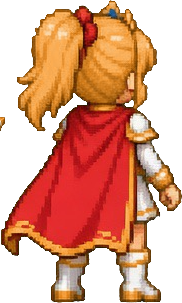
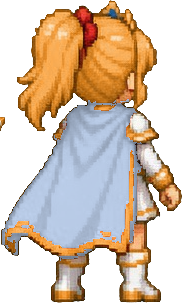
feat: 小公主披風改成冷銀白，紅披風留給長公主當辨識線索
紅披風是長公主的特徵，開場 CG 第 1 張的背影反轉就靠這個：
第一輪玩家會把紅披風的背影讀成「理想中的騎士」，第二輪才發現是姐姐。
線索看得見但第一次無害，這才是伏筆該有的樣子。

問題是純白配白金鎧甲在遊戲的 70 px 尺寸下會糊成一團，所以實測了三種白：

| 版本 | 披風 vs 鎧甲 ΔE | 整體 vs 天空 ΔE |
|---|---|---|
| 原本的紅 | 80.0 | 72.1 |
| A 純白 | 17.6（讀成同一塊材質） | 60.5 |
| B 冷銀白 ← 採用 | 30.2 | 59.5 |
| C 淡藍灰 | 43.2（開始讀成藍色） | 58.9 |

採用 B：偏冷偏灰的白，看起來還是白的，但跟暖白的鎧甲分得開。

改到的素材（動作圖、五張轉身圖、兩張結算插畫）都用
tools/recolor_cape.py 處理，它會用連通區塊 + 位置判斷避開紅緞帶
（緞帶是兩姊妹的家族共通點，維持紅色）。這是過渡處理，
之後重拍的動作圖會直接畫成白的。

封面本來就是白披風，不用重產。

Claude-Session: https://claude.ai/code/session_015KdV9rzzxhngxWRbvtQ9iL

Changed region(s): [[0.0, 0.3267, 0.7967, 0.8614]]

diff --git a/tools/recolor_cape.py b/tools/recolor_cape.py
@@ -1,0 +1,64 @@
+"""把小公主 sprite 的紅披風改成冷銀白，紅緞帶保持紅色。
+
+這是暫時的過渡處理——之後重拍的動作圖會直接畫成白披風。
+判定規則：紅色連通區塊裡，位置在角色上緣 38% 以內、而且不到最大塊 30% 的，
+判定為緞帶（綁在馬尾根部），維持原色；其餘都是披風。
+"""
+import sys, os, colorsys
+import numpy as np
+from PIL import Image
+sys.path.insert(0, 'tools')
+from greenscreen_sheet import label_blobs
+
+
+def red_mask(rgb, al):
+    r, g, b = [rgb[..., i].astype(float) for i in range(3)]
+    mx, mn = rgb.max(2).astype(float), rgb.min(2).astype(float)
+    sat = np.where(mx > 0, (mx - mn) / np.maximum(mx, 1), 0)
+    return (al > 0) & (g < r * 0.52) & (b < r * 0.60) & (sat > 0.45) & (mx > 40)
+
+
+def cape_of(red, al):
+    """從紅色區塊裡挑出披風（排除緞帶）。"""
+    keep = np.zeros_like(red)
+    lab, blobs = label_blobs(red)
+    if not blobs:
+        return keep
+    ys = np.where((al > 0).any(axis=1))[0]
+    if not len(ys):
+        return keep
+    top, bot = ys.min(), ys.max()
+    head_band = top + (bot - top) * 0.38          # 馬尾根部落在這個範圍內
+    big = max(bl["px"] for bl in blobs)
+    for bl in blobs:
+        m = (lab == bl["id"])
+        cy = np.where(m.any(axis=1))[0].mean()
+        ribbon = cy < head_band and bl["px"] < big * 0.30
+        if not ribbon:
+            keep |= m
+    return keep
+
+
+def recolor(src, dst, hue=0.60, sat=0.20, lo=0.42, hi=0.96, frames=1):
+    a = np.array(Image.open(src).convert('RGBA'))
+    h, w = a.shape[:2]
+    fw = w // frames
+    total = 0
+    for i in range(frames):                        # 一格一格處理，避免跨格互相影響
+        sl = slice(i * fw, (i + 1) * fw)
+        rgb, al = a[:, sl, :3], a[:, sl, 3]
+        m = cape_of(red_mask(rgb, al), al)
+        v = rgb.max(2).astype(float) / 255.0
+        v2 = np.clip(lo + v * (hi - lo), 0, 1)
+        for y, x in zip(*np.where(m)):
+            rr, gg, bb = colorsys.hsv_to_rgb(hue, sat, v2[y, x])
+            a[y, i * fw + x, :3] = [round(rr * 255), round(gg * 255), round(bb * 255)]
+        total += int(m.sum())
+    Image.fromarray(a).save(dst, optimize=True)
+    return total
+
+
+if __name__ == '__main__':
+    src, dst = sys.argv[1], sys.argv[2]
+    n = int(sys.argv[3]) if len(sys.argv) > 3 else 1
+    print('%-14s 改色 %d px（%d 格）' % (os.path.basename(dst), recolor(src, dst, frames=n), n))

diff --git a/assets/PROMPTS.md b/assets/PROMPTS.md
@@ -43,8 +43,9 @@ eyelashes, light blush, fair skin, gentle dignified expression.
 She wears an elegant WHITE dress-armor with rich GOLD filigree trim: a white
 breastplate with a blue gem at the collar, white gloves, a gold-and-blue jeweled
 belt, a short white layered skirt with gold embroidery, white thigh-high stockings
-and white-and-gold armored boots. A flowing RED cape with a gold edge hangs
-from her shoulders.
+and white-and-gold armored boots. A flowing WHITE cape with a gold edge hangs
+from her shoulders — a cool silver-white, clearly cooler than the warm white
+of her armor, never pure white.
 
 She carries a European longsword with a deep-blue grip, an ornate gold cross-guard
 and a blue jewel set in the guard.
@@ -67,7 +68,7 @@ with iron-rimmed wheels.
 
 Full-body heroic key visual: she stands proudly on a grassy hilltop at sunrise,
 her longsword planted point-down into the ground with both hands resting on the
-pommel, crimson cape billowing in the wind, chin slightly raised with a calm,
+pommel, white cape billowing in the wind, chin slightly raised with a calm,
 dignified, confident expression. Behind her, a fantasy landscape of distant blue
 mountains and a white castle, dramatic golden rim lighting, cinematic light rays,
 floating glowing particles.
@@ -89,7 +90,7 @@ No text, no letters, no logo, no watermark, no signature, no border frame.
 [如果 Grok 支援參考圖，把 cover.png 一起附上並加一句：same character as the attached image]
 
 Full-body heroic key visual, horizontal composition: she stands on the RIGHT
-third of the frame, resting her longsword on her shoulder, crimson cape sweeping
+third of the frame, resting her longsword on her shoulder, white cape sweeping
 to the side, looking toward the camera with a confident smile. The LEFT half of
 the image is an open fantasy landscape — sunrise sky, distant mountains, a
 castle silhouette — kept simple and uncluttered.
@@ -132,16 +133,19 @@ No text, no letters, no logo, no watermark, no signature.
 
 ---
 
-## ⚠ 目前的封面與遊戲 sprite 不一致
+## 披風顏色定案：小公主白、長公主紅
 
-`cover.jpg` / `cover-wide.jpg` 裡小公主的披風是**白色**，遊戲裡的 sprite 是**紅色**。
-定案是**以 sprite 為準（紅色）**——上面的角色設定已經改好了，
-兩張封面之後要用新設定重產一次。
+**紅披風是長公主的專屬特徵**，開場 CG 第 1 張的背影反轉就靠這個。
+封面本來就畫成白色，所以封面不用動；反而是**遊戲 sprite 原本是紅的，已經改成冷銀白**
+（動作圖、轉身圖、結算插畫都改好了）。
 
-理由：紅披風是開場 CG 第 1 張那個「背影反轉」的關鍵（兩姊妹都穿紅披風，
-玩家才會誤認）；而且重產一張封面比重拍四張動作圖便宜太多。
+⚠ 白披風不能用純白——配上白金鎧甲會糊成一團（實測 ΔE 只有 17.6）。
+要用**冷銀白**：偏冷、偏灰，跟鎧甲的暖白分得開。上面的角色設定段已經寫進去了。
 
-其餘的服裝差異對照見 [`character/SPRITE_SHEETS.md`](character/SPRITE_SHEETS.md) 第三節。
+紅緞帶維持紅色，那是兩姊妹的家族共通點。
+
+完整的實測數字與其餘服裝差異對照，見
+[`character/SPRITE_SHEETS.md`](character/SPRITE_SHEETS.md) 第三節。
 
 ---
 

diff --git a/assets/story/cutscenes.md b/assets/story/cutscenes.md
@@ -60,17 +60,19 @@
 這張的設計是：玩家此時**還不知道長公主的存在**，看到背影會以為那是小公主
 對未來自己的想像。**第二輪才會發現：長公主在這一刻就已經出場了。**
 
-問題是，兩姐妹從背後看幾乎一模一樣——都是金髮、高馬尾、紅緞帶、紅披風。
-差別在成熟度與瞳色，而**瞳色從背後看不到**。
+兩姐妹從背後看很像——都是金髮、高馬尾、紅緞帶。差別在成熟度與瞳色，
+而**瞳色從背後看不到**。所以這張要留看得見的線索。已經定下來的有兩個：
 
-所以這張要留一個**看得見的線索**，不然反轉會變成「作者說是就是」，
-而不是「玩家自己發現」：
-
-- ✅ **讓大劍入鏡**。長公主用的是大劍，小公主用的是長劍，剪影差很多
+- ✅ **披風是紅色**。小公主自己穿的是**白（冷銀白）披風**，紅披風是長公主的特徵。
+  玩家在標題畫面和選角卡早就看過白披風的小公主了，所以這裡的紅一定會被注意到——
+  但第一輪只會讀成「理想中的騎士，當然不用穿她現在的衣服」，完全無害。
+  第二輪才變成鐵證。**這是主要線索。**
+- ✅ **讓大劍入鏡**。長公主用大劍，小公主用長劍，剪影差很多。第二個線索
 - ✅ 身形**明顯更高更成熟**
 - ⭕（可選）前景放一把小公主自己的長劍或木劍當對照
 
-有了線索，第二輪玩家會有「原來如此」的快感；沒有線索，只會覺得被騙。
+線索看得見、但第一次無害——這才是伏筆該有的樣子。
+沒有線索的話，反轉會變成「作者說是就是」，而不是「玩家自己發現」。
 
 #### ⭕ 可選的回收：長公主篇開場用同一個構圖，但從正面
 
